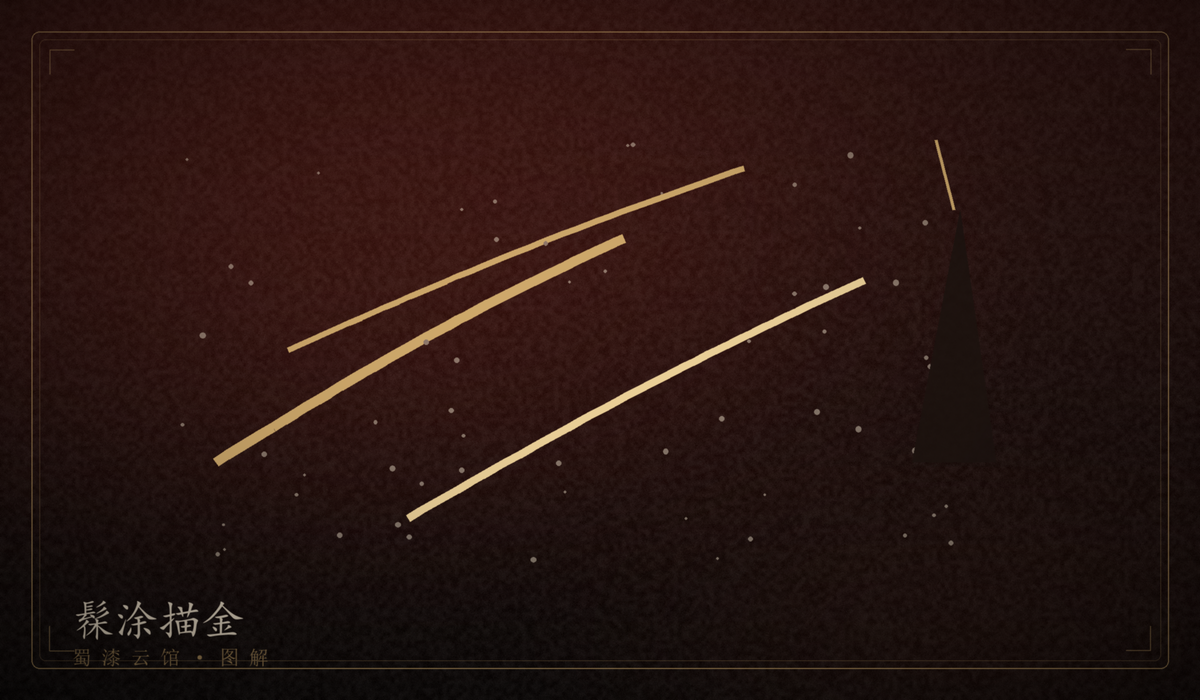
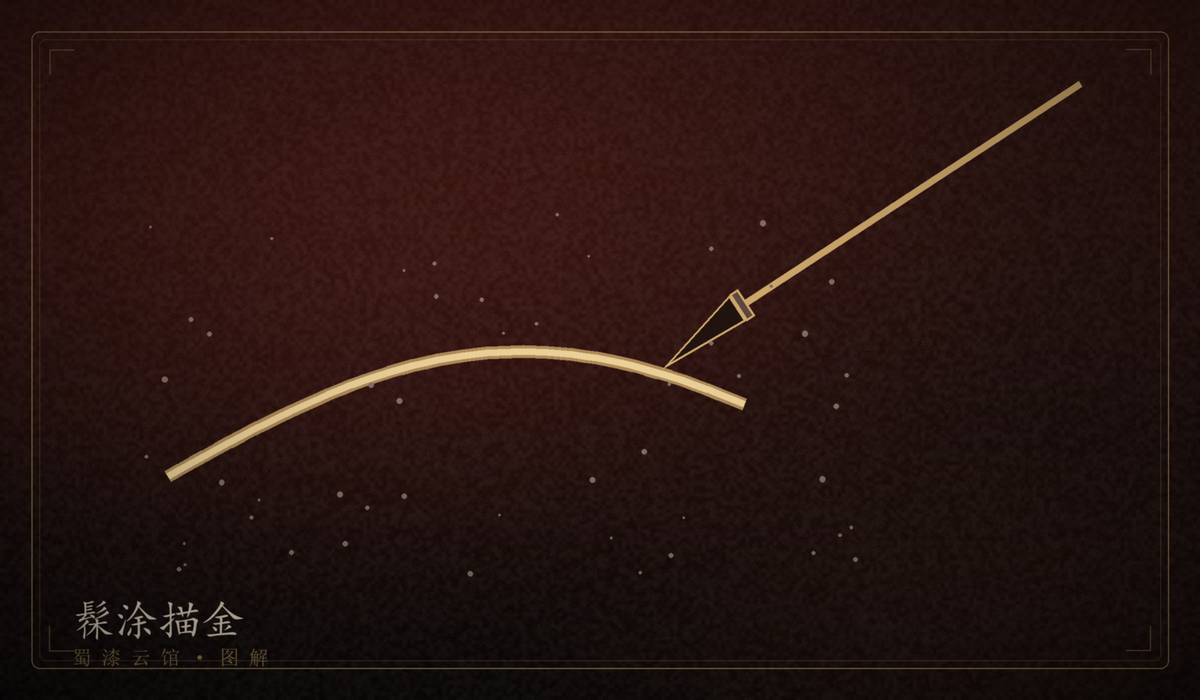
style(seed): 优化髹涂描金配图，改为漆刷与金漆笔触

diff --git a/qi/seed-assets/generate_seed_images.py b/qi/seed-assets/generate_seed_images.py
@@ -576,20 +576,32 @@ def node_img(w, h, kind):
         d.line([(w * 0.66, h * 0.56), (w * 0.70, h * 0.54)], fill=CREAM + (200,), width=S * 3)
         label = "制胎"
     elif kind == "deco":
-        # 髹涂描金：笔触与金屑
-        for k, (x0, y0, x1, y1) in enumerate([
-            (w * 0.18, h * 0.66, w * 0.52, h * 0.34),
-            (w * 0.34, h * 0.74, w * 0.72, h * 0.40),
-            (w * 0.24, h * 0.50, w * 0.62, h * 0.24),
-        ]):
-            brush_stroke(d, x0, y0, x1, y1, S * (10 - k * 2), GOLD_BRIGHT if k == 1 else GOLD)
+        # 髹涂描金：一道金漆笔触 + 漆刷 + 金屑
+        stroke = []
+        for i in range(48):
+            t = i / 47
+            stroke.append((w * (0.14 + 0.48 * t),
+                           h * (0.68 - 0.16 * math.sin(t * math.pi * 0.85) - 0.03 * t)))
+        d.line(stroke, fill=GOLD + (200,), width=S * 13, joint="curve")
+        d.line(stroke, fill=GOLD_BRIGHT, width=S * 7, joint="curve")
+        # 漆刷：刷杆 + 金属箍 + 刷毛
+        hx0, hy0 = w * 0.90, h * 0.12
+        hx1, hy1 = w * 0.615, h * 0.44
+        d.line([(hx0, hy0), (hx1, hy1)], fill=GOLD, width=S * 7)
+        ang = math.atan2(hy1 - hy0, hx1 - hx0)
+        nx, ny = -math.sin(ang), math.cos(ang)
+        fx, fy = hx1 - math.cos(ang) * S * 10, hy1 - math.sin(ang) * S * 10
+        d.polygon([(fx + nx * S * 16, fy + ny * S * 16), (fx - nx * S * 16, fy - ny * S * 16),
+                   (hx1 - nx * S * 16, hy1 - ny * S * 16), (hx1 + nx * S * 16, hy1 + ny * S * 16)],
+                  fill=CREAM + (60,), outline=GOLD, width=S * 2)
+        d.polygon([(hx1 + nx * S * 15, hy1 + ny * S * 15), (hx1 - nx * S * 15, hy1 - ny * S * 15),
+                   (hx1 + math.cos(ang) * w * 0.075, hy1 + math.sin(ang) * w * 0.075 + S * 12)],
+                  fill=(32, 20, 16, 235), outline=GOLD, width=S * 2)
         rng = random.Random(5)
-        for _ in range(60):
-            px, py = rng.uniform(w * 0.15, w * 0.8), rng.uniform(h * 0.2, h * 0.8)
+        for _ in range(50):
+            px, py = rng.uniform(w * 0.12, w * 0.72), rng.uniform(h * 0.30, h * 0.82)
             r = rng.uniform(1, 3) * S
-            d.ellipse([px - r, py - r, px + r, py + r], fill=CREAM + (120,))
-        d.polygon([(w * 0.76, h * 0.66), (w * 0.80, h * 0.30), (w * 0.83, h * 0.66)], fill=(30, 20, 16, 220))
-        d.line([(w * 0.795, h * 0.30), (w * 0.78, h * 0.20)], fill=GOLD, width=S * 3)
+            d.ellipse([px - r, py - r, px + r, py + r], fill=CREAM + (110,))
         label = "髹涂描金"
     elif kind == "ending":
         cx, cy = w * 0.5, h * 0.55
